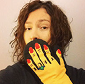
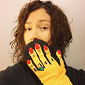
fix some image size

diff --git a/app/about/page.tsx b/app/about/page.tsx
@@ -42,9 +42,11 @@ export default function Studio() {
       <Image
         src="/about-team.png"
         alt="Lastik team"
-        width={822}
+        width={821}
         height={541}
         className="w-2/3"
+        loading="eager"
+        priority
       />
 
       <section className="flex flex-col gap-4">
